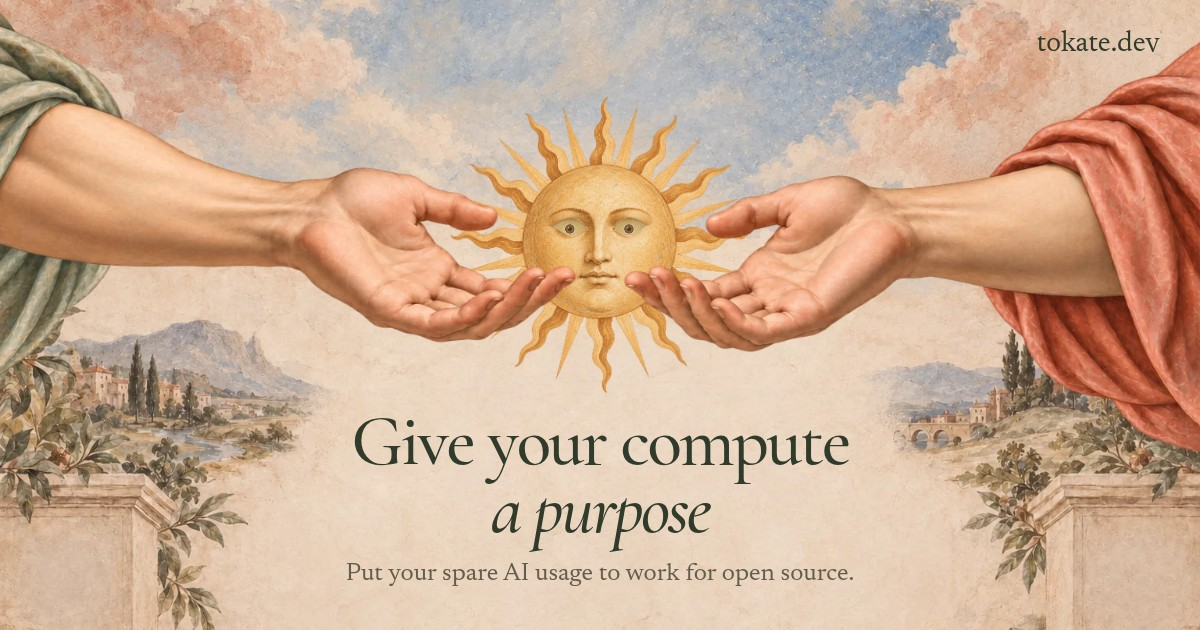
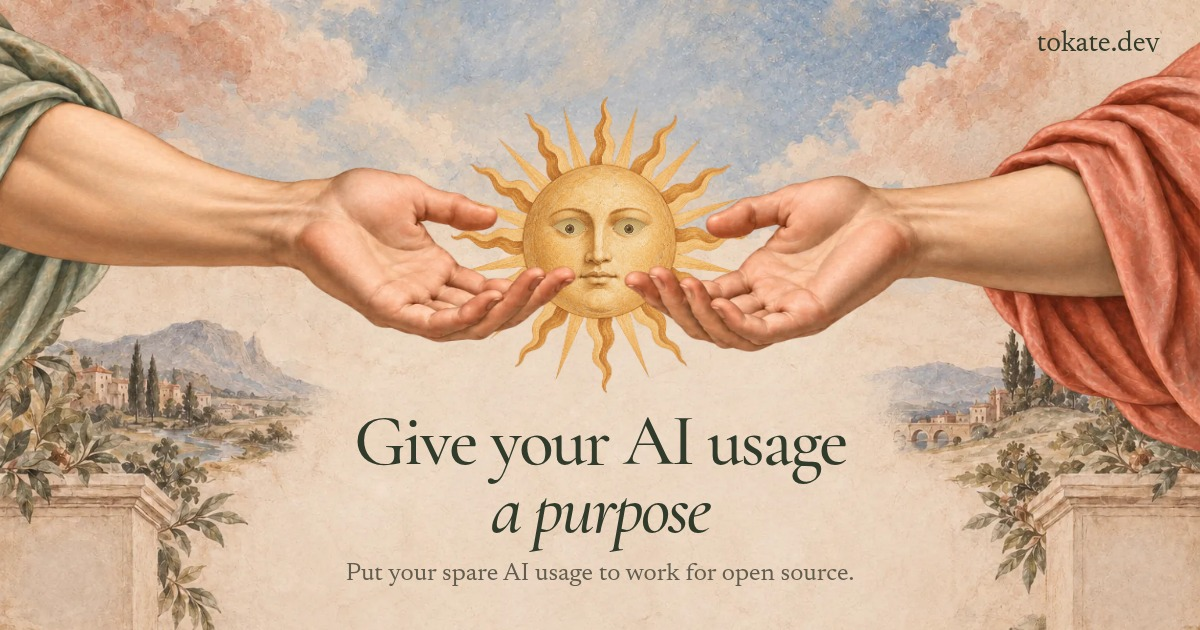
Use more precise wording for AI usage and inference
Closes #9

Changed region(s): [[0.2775, 0.6635, 0.7092, 0.7841]]

diff --git a/site/index.html b/site/index.html
@@ -6,25 +6,25 @@
         <meta name="theme-color" content="#f3e7d4" />
         <meta
             name="description"
-            content="Give your compute a purpose, help open-source projects with the AI usage you already have"
+            content="Give your AI usage a purpose, help open-source projects with the AI usage you already have"
         />
-        <title>Tokate · Give your compute a purpose</title>
+        <title>Tokate · Give your AI usage a purpose</title>
         <meta property="og:type" content="website" />
         <meta property="og:site_name" content="Tokate" />
         <meta property="og:locale" content="en_US" />
-        <meta property="og:title" content="Tokate · Give your compute a purpose" />
+        <meta property="og:title" content="Tokate · Give your AI usage a purpose" />
         <meta property="og:description" content="Put your spare AI usage to work for the open-source projects you love." />
         <meta property="og:url" content="https://tokate.dev/" />
         <meta property="og:image" content="https://tokate.dev/assets/social-card.jpg" />
         <meta property="og:image:type" content="image/jpeg" />
         <meta property="og:image:width" content="1200" />
         <meta property="og:image:height" content="630" />
-        <meta property="og:image:alt" content="Tokate's painted sun held between two hands above the words Give your compute a purpose." />
+        <meta property="og:image:alt" content="Tokate's painted sun held between two hands above the words Give your AI usage a purpose." />
         <meta name="twitter:card" content="summary_large_image" />
-        <meta name="twitter:title" content="Tokate · Give your compute a purpose" />
+        <meta name="twitter:title" content="Tokate · Give your AI usage a purpose" />
         <meta name="twitter:description" content="Put your spare AI usage to work for the open-source projects you love." />
         <meta name="twitter:image" content="https://tokate.dev/assets/social-card.jpg" />
-        <meta name="twitter:image:alt" content="Tokate's painted sun held between two hands above the words Give your compute a purpose." />
+        <meta name="twitter:image:alt" content="Tokate's painted sun held between two hands above the words Give your AI usage a purpose." />
         <script>
             try {
                 document.documentElement.dataset.theme =
@@ -270,7 +270,7 @@
                 </div>
                 <div class="hero-copy">
                     <h1 id="headline">
-                        Give your compute<br /><em>a purpose</em>
+                        Give your AI usage<br /><em>a purpose</em>
                     </h1>
                     <p>
                         Put your spare AI usage to work<br
@@ -301,7 +301,7 @@
                 <article>
                     <span class="number">II</span>
                     <div>
-                        <h2>Give some compute</h2>
+                        <h2>Donate AI usage</h2>
                         <p>A donor’s AI works on it</p>
                     </div>
                 </article>

diff --git a/site/app.js b/site/app.js
@@ -47,17 +47,17 @@ const roles = {
             "Review the tested pull request and decide what merges",
         ],
         anchor: "for-owners",
-        prompt: "Read https://github.com/obselate/tokate/blob/main/AGENTS.md and help me set up my repository to receive donated compute\nI am the repository owner\nInspect my project, help me choose appropriate checks, and guide me through approving an issue for a donor",
+        prompt: "Read https://raw.githubusercontent.com/obselate/tokate/main/AGENTS.md and help me set up my repository to receive contributions using donated AI usage\nI am the repository owner\nInspect my project, help me choose appropriate checks, and guide me through approving an issue for a donor",
     },
     donor: {
-        title: "For Compute Donors",
+        title: "For Donors",
         steps: [
             "Install Tokate and sign in with your own accounts",
             "Get assigned to an approved issue and run the task",
             "Your AI works, then Tokate checks and opens a draft PR",
         ],
         anchor: "for-donors",
-        prompt: "Read https://github.com/obselate/tokate/blob/main/AGENTS.md and help me donate compute to a repository\nI am the donor\nConfirm my tools, the approved issue, and my assignment\nExplain the budget before starting a run",
+        prompt: "Read https://raw.githubusercontent.com/obselate/tokate/main/AGENTS.md and help me use my spare AI usage to contribute to a repository\nI am the donor\nConfirm my tools, the approved issue, and my assignment\nExplain the budget before starting a run",
     },
 };
 let selectedRole = "owner";

diff --git a/branding/social-card.html b/branding/social-card.html
@@ -137,7 +137,7 @@ main > p { margin: 0; font-size: 25px; text-align: center; color: var(--muted); 
                     </button>
 <img class="hands hand-left" src="../site/assets/hands-smooth.webp" alt="" />
 <img class="hands hand-right" src="../site/assets/hands-smooth.webp" alt="" />
-</div><h1>Give your compute<br /><em>a purpose</em></h1>
+</div><h1>Give your AI usage<br /><em>a purpose</em></h1>
 <p>Put your spare AI usage to work for open source.</p>
 </main>
 </body>

diff --git a/docs/reference.md b/docs/reference.md
@@ -49,7 +49,7 @@ user-local location.
 
 ```text
 Tokate 0.2.3 (toh-KAH-teh)
-Donate compute to approved GitHub issues.
+Donate AI usage to approved GitHub issues.
 
   tokate doctor                           Check tools and sandbox without inference
   tokate update                           Install the latest stable release
@@ -65,9 +65,9 @@ Owner:
 Donor:
   tokate work --repo OWNER/REPO --issue N --model MODEL --effort EFFORT
               [--seconds 1800] [--fork LOGIN/REPO] [--allow-network] [--runs DIR]
-  tokate claim <same options>              Reserve without starting compute
+  tokate claim <same options>              Reserve without starting inference
   tokate work --run DIR                    Execute a saved claim once
-  tokate publish --run DIR                 Retry publication without compute
+  tokate publish --run DIR                 Retry publication without inference
   tokate status --run DIR                  Show saved run
 
 Review:
@@ -87,7 +87,7 @@ PRs are drafts. The owner reviews and merges. No quota transfer or correctness g
 
 `claim` reserves a branch without running inference. Use `work --run DIR` to execute it later. Runs are stored in `~/.local/state/tokate/runs/`, or the `--runs` directory. Each contains its claim, agent events, report, verification results, patch, PR body, and check results. Keep these files private and inspect logs before sharing them.
 
-`publish --run DIR` retries publication after a successful run without spending compute again. Failed or interrupted compute requires fresh owner approval. Claim branches remain for inspection and can be deleted after review.
+`publish --run DIR` retries publication after a successful run without running inference again. Failed or interrupted runs requires fresh owner approval. Claim branches remain for inspection and can be deleted after review.
 
 `--seconds` caps agent execution plus independent verification. The default is the smaller of 1800 seconds and the owner's limit. It is not a token cap. `--fork LOGIN/NAME` selects a renamed fork owned by the donor. Network access requires both owner policy and donor `--allow-network`.
 
@@ -104,7 +104,7 @@ Tokate applies these gates:
 3. Require a completed agent turn, a report, and a nonempty patch.
 4. Run every owner verification command separately. A failure prevents PR creation even if the agent claims success.
 5. Reject changes to `.github/workflows/` and Tokate policy, approval, and template files.
-6. Open a draft PR with acceptance-criteria reporting, actual verification commands, limitations, and a compute receipt.
+6. Open a draft PR with acceptance-criteria reporting, actual verification commands, limitations, and a run receipt.
 7. Require all named GitHub checks to pass for the exact PR commit. Missing, pending, cancelled, and skipped required checks never count as success.
 8. Leave acceptance and merging to the owner.
 
@@ -127,11 +127,11 @@ the limits of the current implementation.
 
 Tokate invokes tools with argument arrays, never interpolated shell command strings. Git hooks, filesystem monitors, external transports, and user/system Git configuration are disabled for orchestration. The repository is cloned without templates or submodules. GitHub credentials stay with the host-side GitHub/publishing commands.
 
-Codex gets an allowlisted environment without GitHub/API-key credentials. User configuration, exec rules, hooks, plugins, host skill discovery, multi-agent features, and web search are disabled. Repository `.codex` configuration is rejected. Sandboxed commands have filesystem reads denied by default, with only minimal system runtime paths, the native Codex executable, and the checkout allowed. `.git` is denied. The shell has a scratch home and temp directory inside the checkout. A preflight probes read denial before spending compute. Unsupported sandbox configurations fail closed.
+Codex gets an allowlisted environment without GitHub/API-key credentials. User configuration, exec rules, hooks, plugins, host skill discovery, multi-agent features, and web search are disabled. Repository `.codex` configuration is rejected. Sandboxed commands have filesystem reads denied by default, with only minimal system runtime paths, the native Codex executable, and the checkout allowed. `.git` is denied. The shell has a scratch home and temp directory inside the checkout. A preflight probes read denial before starting inference. Unsupported sandbox configurations fail closed.
 
 Verification runs under the same filesystem boundary and a clean environment, with read-only access to Git metadata. Agent network access defaults off. Allowing it permits outbound command network access and should be limited to repositories the donor trusts. The Codex host still needs network access for inference. Installed Codex and system administrators are trusted. This is OS sandboxing, not a separate VM or protection against kernel vulnerabilities. Run unfamiliar projects on a dedicated donor machine or VM.
 
-Process groups are killed on timeout, cancellation, and normal completion to clean up their background children. No automatic repair loop burns additional compute. Time caps are not exact token or subscription-percentage caps.
+Process groups are killed on timeout, cancellation, and normal completion to clean up their background children. No automatic repair loop uses additional inference. Time caps are not exact token or subscription-percentage caps.
 
 ## Build from source
 
@@ -153,6 +153,6 @@ The pinned public G# SDK is 0.4.591. Verification uses the pinned SDK formatter,
 builds and publishes NativeAOT with warnings as errors, and runs a G# end-to-end
 harness against the actual binary. It uses two simulated GitHub identities, real
 local Git repositories, and deterministic Codex and release-download fixtures.
-Tests cover contribution boundaries and install/update/removal without spending
-compute, downloading a release, or modifying GitHub. No external test framework
+Tests cover contribution boundaries and install/update/removal without running
+inference, downloading a release, or modifying GitHub. No external test framework
 or Python runtime is required.

diff --git a/AGENTS.md b/AGENTS.md
@@ -6,7 +6,7 @@ This guide is for helping someone set up or use Tokate. If you are already execu
 
 ## Start here
 
-1. Identify the user's role: repository owner, compute donor, or both. Infer it from the conversation when possible.
+1. Identify the user's role: repository owner, donor, or both. Infer it from the conversation when possible.
 2. Confirm the upstream repository, issue, and GitHub usernames. Read the issue and existing configuration before suggesting changes. Ask only for missing information.
 3. Explain the next action in one or two sentences, perform authorized work, and report the result. Keep track of which account and repository each command affects.
 4. Use [README.md](README.md) for installation and [docs/reference.md](docs/reference.md) for commands and limits. Check `tokate --help` against the installed version.
@@ -60,7 +60,7 @@ tokate checks --repo OWNER/REPO --pr PR --watch
 
 For a first-time donor, GitHub may wait for the owner to approve the fork workflow. Inspect the diff before approving it. Check acceptance criteria as well as CI. Leave final acceptance and merging with the owner.
 
-## Guide a compute donor
+## Guide a donor
 
 ### 1. Confirm readiness
 
@@ -83,7 +83,7 @@ Reuse an existing fork. Use `--fork DONOR/NAME` if it has a different name.
 
 ### 3. Run once
 
-Use an allowed model and effort. Running this command spends the donor's allowance, so it needs the user's authorization to donate compute.
+Use an allowed model and effort. Running this command spends the donor's allowance, so it needs the user's authorization to donate AI usage.
 
 ```sh
 tokate work --repo OWNER/REPO --issue ISSUE --model MODEL --effort EFFORT
@@ -100,7 +100,7 @@ tokate checks --run DIR --watch
 
 Report the PR URL, verification result, and any action needed from the owner. Keep logs private and remove secrets before sharing them. Report usage as supplied by the runner, not as independently proven model identity or billing.
 
-## Recover without wasting compute
+## Recover without wasting AI usage
 
 | Situation | Next action |
 | --- | --- |
@@ -108,8 +108,8 @@ Report the PR URL, verification result, and any action needed from the owner. Ke
 | Donor cannot be assigned | Have the donor comment, then let the owner approve again |
 | Claim branch already exists | Find the existing run. Do not delete the branch and silently start another attempt |
 | Approval changed or was revoked | Stop and return to the owner |
-| Compute or verification failed | Inspect the saved logs. A new attempt needs fresh owner approval |
-| Successful compute, publication failed | `tokate publish --run DIR` retries publication without inference |
+| Agent run or verification failed | Inspect the saved logs. A new attempt needs fresh owner approval |
+| Successful run, publication failed | `tokate publish --run DIR` retries publication without inference |
 | CI pending | Check for fork-workflow approval, a missing job, or a job still running. Pending is not success |
 
-Never weaken owner checks, switch models silently, bypass the sandbox, or automatically retry failed compute to obtain a green result.
+Never weaken owner checks, switch models silently, bypass the sandbox, or automatically retry failed runs to obtain a green result.

diff --git a/README.md b/README.md
@@ -1,4 +1,4 @@
-[![Tokate: Give your compute a purpose. Painted hands cradle a sun above a Renaissance landscape.](site/assets/social-card.jpg)](https://tokate.dev/)
+[![Tokate: Give your AI usage a purpose. Painted hands cradle a sun above a Renaissance landscape.](site/assets/social-card.jpg)](https://tokate.dev/)
 
 # Tokate
 
@@ -37,7 +37,7 @@ Review the resulting PR and [required checks](docs/reference.md#quality-and-revi
 
 ## For Donors:
 
-1. Follow the [donor setup guide](AGENTS.md#guide-a-compute-donor) to sign in and check your tools with `tokate doctor`.
+1. Follow the [donor setup guide](AGENTS.md#guide-a-donor) to sign in and check your tools with `tokate doctor`.
 2. Get assigned to an approved issue and create or reuse your fork.
 3. Choose an allowed model/effort pair and start:
 
@@ -45,6 +45,6 @@ Review the resulting PR and [required checks](docs/reference.md#quality-and-revi
 tokate work --repo OWNER/REPO --issue 42 --model MODEL --effort EFFORT
 ```
 
-Tokate prepares the checkout, runs the task and checks, then opens a draft PR. Your accounts and compute stay under your control.
+Tokate prepares the checkout, runs the task and checks, then opens a draft PR. Your accounts and AI usage stay under your control.
 
 [Website](https://tokate.dev/) · [Releases](https://github.com/obselate/tokate/releases) · [Commands and recovery](docs/reference.md) · [Data transparency](docs/transparency.md) · [Build from source](docs/reference.md#build-from-source) · [Issues](https://github.com/obselate/tokate/issues) · [MIT license](LICENSE)

diff --git a/docs/transparency.md b/docs/transparency.md
@@ -2,7 +2,7 @@
 
 [Setup guide](../README.md) · [Command and isolation reference](reference.md)
 
-This document describes how Tokate 0.2.3 discovers tools, handles data, and
+This document describes how Tokate 0.2.4 discovers tools, handles data, and
 delegates authentication. Source links support the behavior described below.
 
 ## Current harness discovery and settings

diff --git a/templates/tokate-pr.md b/templates/tokate-pr.md
@@ -4,7 +4,7 @@ Fixes #{{issue}}
 
 {{report}}
 
-## Donated compute
+## Donated AI usage
 
 | Field | Value |
 | --- | --- |
